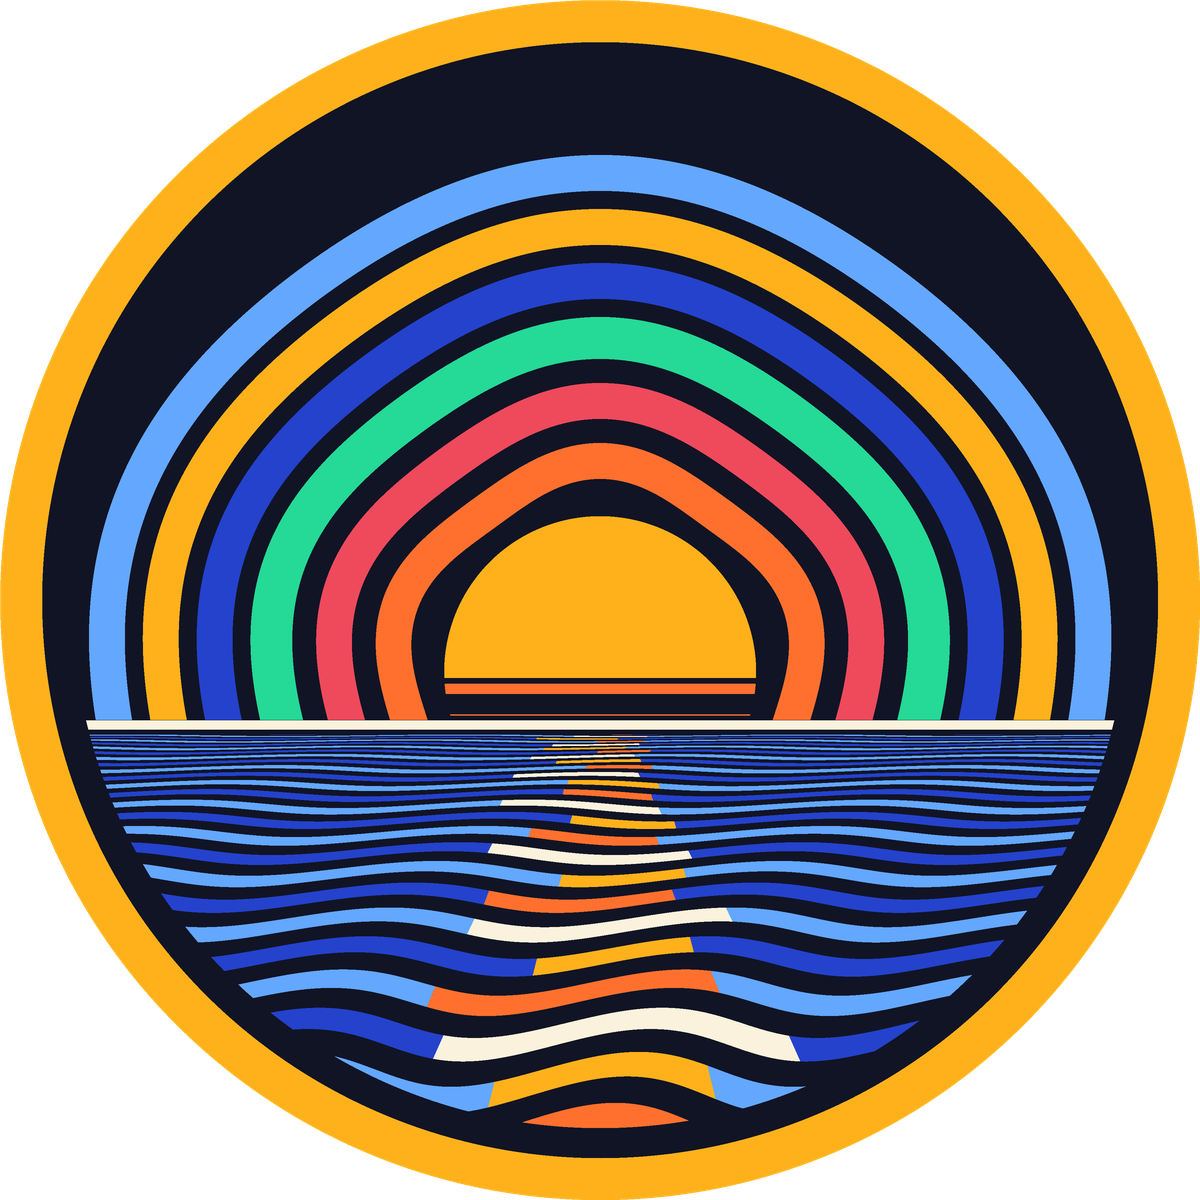
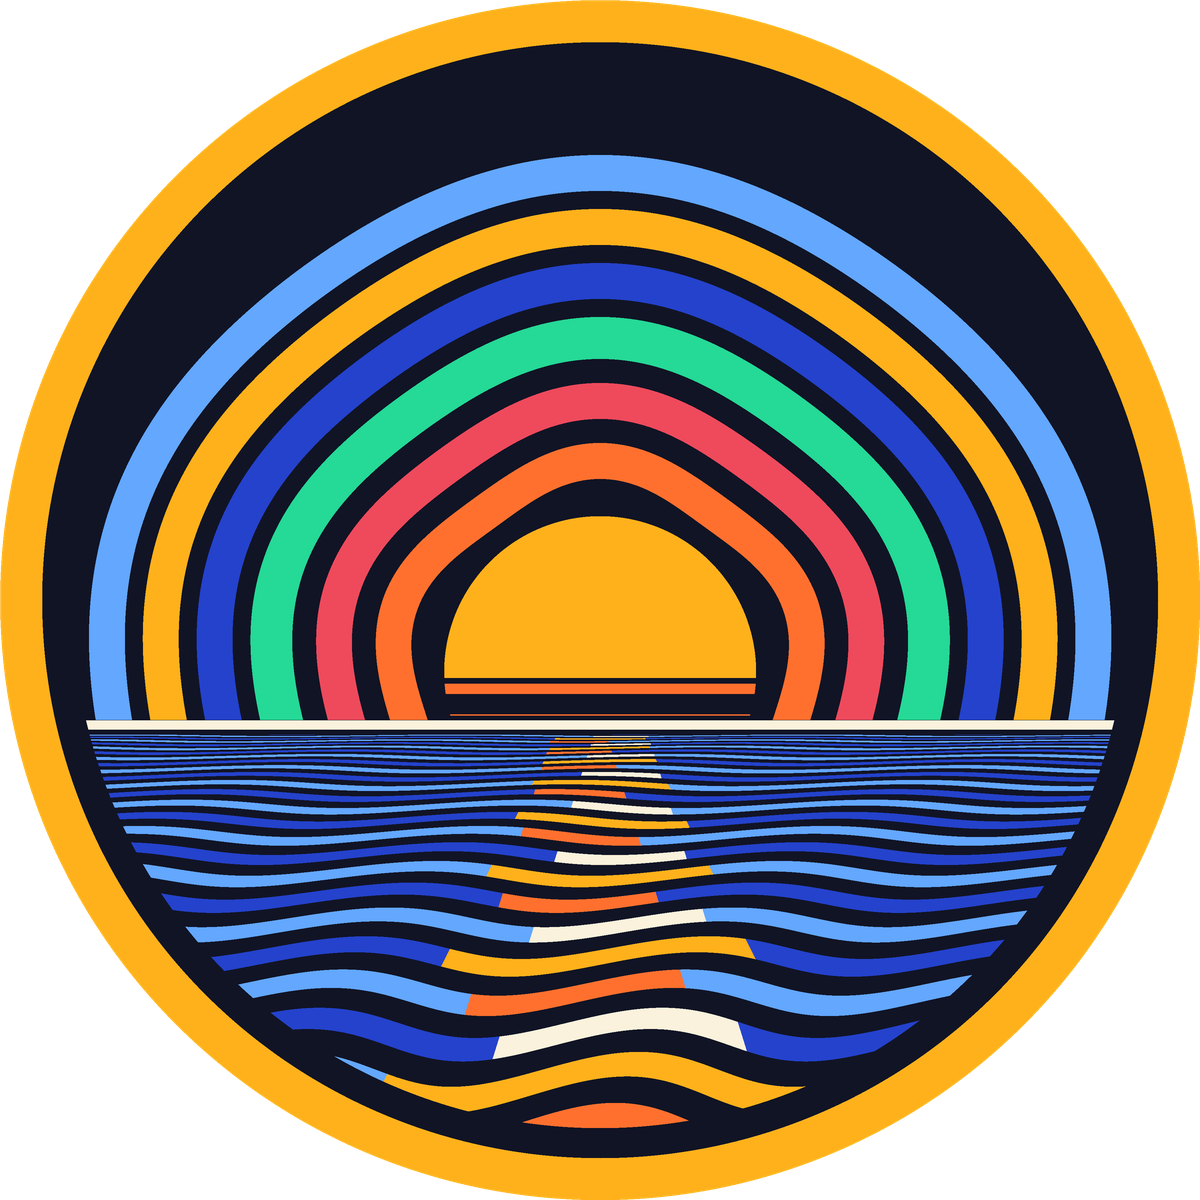
Add looping hat GIF: rings pulse from the sun, swell rolls in
patch_art takes an optional phase; cap rendering is split so the base is
drawn once and the animated patch is composited per frame. GIF palette pins
the exact thread colours.

Claude-Session: https://claude.ai/code/session_01C8GSpt73ygt3VVNpo79E8E

diff --git a/designs/annual-report/hat/hat.py b/designs/annual-report/hat/hat.py
@@ -30,8 +30,12 @@ def paint(img, mask, col):
     img[:] = img * (1 - m) + rgba(col) * m
 
 
-def patch_art(size):
-    """Circular patch, 6 thread colours + navy twill."""
+def patch_art(size, phase=None):
+    """Circular patch, 6 thread colours + navy twill.
+
+    phase in [0, 1) animates it: rings travel out from the sun and the swell
+    rolls toward the viewer; both wrap seamlessly at phase 1.
+    """
     n = size * SS
     ys, xs = np.mgrid[0:n, 0:n].astype(np.float32)
     x, y = xs / n, ys / n
@@ -53,8 +57,17 @@ def patch_art(size):
              (0.255, 0.290, MINT), (0.305, 0.335, COBALT), (0.350, 0.380, GOLD),
              (0.395, 0.425, SKY)]
     wob = 0.006 * np.sin(np.arctan2(y - sy, x - sx) * 5)
-    for a, b, col in rings:
-        paint(img, sky & (rs + wob > a) & (rs + wob < b), col)
+    if phase is None:
+        for a, b, col in rings:
+            paint(img, sky & (rs + wob > a) & (rs + wob < b), col)
+    else:
+        # one ring spacing per sixth of the loop; colours roll with the rings
+        sp, r0 = 0.048, 0.155
+        u = (rs + wob - r0) / sp - 6 * phase
+        k = np.floor(u).astype(int)
+        ring = sky & (u - k < 0.62) & (rs + wob > sr + 0.02) & (rs + wob < 0.43)
+        for i, (_, _, col) in enumerate(rings):
+            paint(img, ring & (np.mod(k, 6) == i), col)
     # sun with scanline slots
     sun = sky & (rs < sr)
     paint(img, sun & (y < sy + 0.005), GOLD)
@@ -64,13 +77,15 @@ def patch_art(size):
     # sea: wavy swell lines + glitching gold reflection
     sea = inside & (y >= hz + 0.012)
     d = np.maximum(y - hz, 1e-3)
-    sw = 7.0 * np.log(d / 0.004) + 0.35 * np.sin(x * 22 + np.log(d) * 3)
+    p = 0.0 if phase is None else phase
+    sw = 7.0 * np.log(d / 0.004) + 0.35 * np.sin(x * 22 + np.log(d) * 3 + 2 * np.pi * p) \
+        - 6 * p  # six bands per loop keeps the %2 / %3 colour cycles seamless
     band = np.floor(sw).astype(int)
     t = sw - np.floor(sw)
     line = sea & (t < 0.5)
     reflw = 0.03 + 0.20 * (d / 0.4)
-    offs = 0.02 * np.sin(band * 2.3)
-    refl = np.abs(x - sx + offs) < reflw * (0.5 + 0.5 * np.cos(band * 1.1) ** 2)
+    offs = 0.02 * np.sin(band * np.pi * 2 / 3)
+    refl = np.abs(x - sx + offs) < reflw * (0.5 + 0.5 * np.cos(band * np.pi / 3) ** 2)
     paint(img, line & ~refl & (band % 2 == 0), SKY)
     paint(img, line & ~refl & (band % 2 == 1), COBALT)
     paint(img, line & refl & (band % 3 == 0), GOLD)
@@ -86,7 +101,11 @@ def superellipse_top(x, a, b, p=2.6):
     return b * np.clip(1 - np.abs(x / a) ** p, 0, 1) ** (1 / p)
 
 
-def mockup(scale, patch):
+def cap_base(scale):
+    return mockup(scale, None, bare=True)
+
+
+def mockup(scale, patch, bare=False):
     W, H = int(2400 * scale), int(2000 * scale)
     n_w, n_h = W * SS, H * SS
     ys, xs = np.mgrid[0:n_h, 0:n_w].astype(np.float32)
@@ -145,7 +164,13 @@ def mockup(scale, patch):
 
     out = Image.fromarray(img.clip(0, 255).astype(np.uint8), "RGBA")
     out = out.resize((W, H), Image.LANCZOS)
+    return out if bare else decorate(out, scale, patch, base)
 
+
+def decorate(out, scale, patch, base=0.50):
+    """Place the patch and side embroidery on a rendered cap."""
+    out = out.copy()
+    W = out.width
     # patch on the front crown, slightly squashed for curvature
     pw = int(0.215 * W)
     ph = int(pw * 0.92)
@@ -170,11 +195,36 @@ def mockup(scale, patch):
     return out.convert("RGB")
 
 
+def gif(scale, frames, fps, out):
+    """Looping GIF: rings pulse out of the sun, swell rolls in."""
+    base = cap_base(scale)
+    psize = int(0.215 * base.width * 1.5)
+    imgs = [decorate(base, scale, patch_art(psize, i / frames)) for i in range(frames)]
+    # cap shading tones + the exact thread colours, so no thread goes muddy
+    tones = base.convert("RGB").quantize(colors=96, method=Image.MEDIANCUT)
+    cols = tones.getpalette()[:96 * 3]
+    for c in (NAVY, CREAM, GOLD, ORANGE, CORAL, SKY, COBALT, MINT):
+        cols += list(c)
+    pal = Image.new("P", (1, 1))
+    pal.putpalette(cols + [0] * (768 - len(cols)))
+    q = [im.quantize(palette=pal, dither=Image.NONE) for im in imgs]
+    q[0].save(out, save_all=True, append_images=q[1:], loop=0,
+              duration=int(1000 / fps), optimize=True, disposal=1)
+    print("wrote", out, f"{os.path.getsize(out) / 1e6:.1f} MB")
+
+
 if __name__ == "__main__":
     ap = argparse.ArgumentParser()
     ap.add_argument("--scale", type=float, default=1.0)
     ap.add_argument("--outdir", default=HERE)
+    ap.add_argument("--gif", action="store_true", help="render hat-loop.gif instead")
+    ap.add_argument("--frames", type=int, default=48)
+    ap.add_argument("--fps", type=int, default=16)
     a = ap.parse_args()
+    if a.gif:
+        gif(a.scale if a.scale != 1.0 else 0.4, a.frames, a.fps,
+            os.path.join(a.outdir, "hat-loop.gif"))
+        sys.exit()
     patch = patch_art(int(1200 * max(a.scale, 0.5)))
     patch.save(os.path.join(a.outdir, "hat-patch.png"))
     mockup(a.scale, patch).save(os.path.join(a.outdir, "hat-mockup.png"))

diff --git a/designs/annual-report/README.md b/designs/annual-report/README.md
@@ -27,8 +27,13 @@ Type is Space Grotesk (SIL OFL, see `SpaceGrotesk-OFL.txt`).
 - `hat/hat-mockup.png`: a front view of a cream crown with a navy visor, gold visor stitching, the patch on the front panel and a small cobalt HOYDICH on the right panel.
 
 ```
-python3 designs/annual-report/hat/hat.py
+python3 designs/annual-report/hat/hat.py         # patch + mockup PNGs
+python3 designs/annual-report/hat/hat.py --gif   # hat-loop.gif
 ```
+
+`hat/hat-loop.gif` (960×800, 48 frames at 16 fps, seamless loop) animates the patch
+on the cap: signal rings pulse out of the sun and the swell and gold reflection roll
+toward the viewer.
 
 ## Animated flux GIF
 
